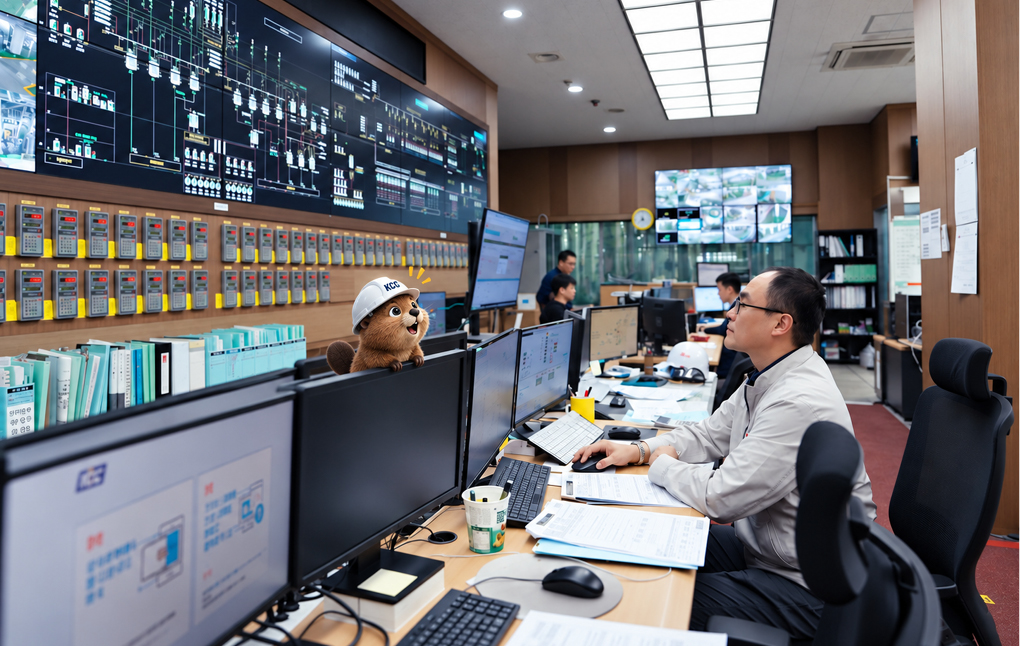
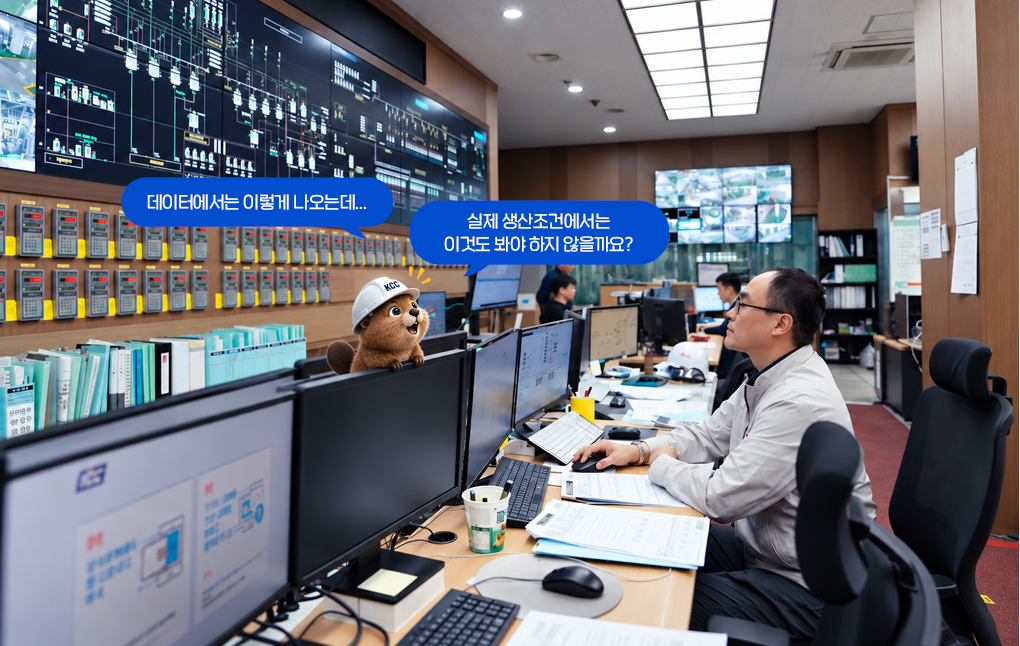
22

Changed region(s): [[0.1216, 0.2477, 0.6686, 0.4334]]

diff --git a/sub1.html b/sub1.html
@@ -101,7 +101,7 @@
           <figure class="article-figure article-figure--continued"><img src="./assets/sub1_6.jpg" width="1240" height="680" alt="표면 테스트를 마치고 도장 샘플 위에 선 케비" loading="lazy" /></figure>
 
           <section class="sound-quiz" aria-labelledby="sound-quiz-title">
-            <h2 id="sound-quiz-title"><svg viewBox="0 0 32 32" aria-hidden="true"><path d="M5 21v-6a11 11 0 0 1 22 0v6M5 17H2v10h6V17Zm22 0h3v10h-6V17Z" /></svg>무슨 소리일까요?</h2>
+            <h2 id="sound-quiz-title"><img src="./assets/sub-headphones.png" width="40" height="38" alt="" aria-hidden="true" />무슨 소리일까요?</h2>
             <audio src="./assets/fac_sound.mp3" preload="metadata" data-factory-audio></audio>
             <div class="sound-player">
               <div class="sound-player__controls">
@@ -125,7 +125,7 @@
           <section class="article-prose article-chapter" aria-labelledby="chapter-two">
             <h2 id="chapter-two"><span class="article-chapter__number">02 <span aria-hidden="true">|</span></span> 도료 공장에서 AI는 무슨 일을 할까?</h2>
             <p>이번에는 직원의 주머니에 올라타 사무공간까지 무임승차했다. 책상 위에 내려오자 노트북 화면에는 숫자와 데이터가 빼곡하다. 울산공장은 ‘Big-Data &amp; AI를 활용한 도료 생산 패러다임의 전환’을 주제로 생산 혁신 과제를 추진했다. 색상 정보와 생산실적 자료를 연결하고, 재고와 수익성 정보 등을 함께 활용해 유사·중복 색상의 반복 개발과 소량 다품종 생산 과정에서 발생할 수 있는 낭비, 재조비, 재고 문제 등을 개선하는 것이 주요 내용이었다. 이 과제는 KCC 핵심전략과제 경진대회에서 대상을 받은 바 있다.</p>
-            <figure class="article-control-room"><img src="./assets/sub1_8.jpg" width="1020" height="646" alt="생산 데이터를 확인하는 울산공장 직원과 케비" loading="lazy" /><span class="article-speech article-speech--data">데이터에서는 이렇게 나오는데...</span><span class="article-speech article-speech--field">실제 생산 조건에서는<br />이것도 봐야 하지 않을까요?</span></figure>
+            <figure class="article-control-room"><img src="./assets/sub1_8.jpg" width="1020" height="646" alt="생산 데이터를 확인하는 울산공장 직원과 케비" loading="lazy" /></figure>
             <p>회의가 20분 이상 지속되자 케비가 연신 하품을 한다. “AI가 답은 빨리 내놓는다던데, 사람들은 왜 이렇게 오래 이야기하지?” 엔터 버튼 위에서 “쿵” 발을 굴려보지만, 아직 해결점은 보이지 않는다. 그리고 케비는 한 가지를 알아냈다. AI가 가능성을 보여줄 수는 있지만, 실제 현장에 어떤 답을 적용할지는 사람의 전문적인 판단과 함께 결정된다는 것을. 울산공장이 과거 자동차도료 품질 개선 과제를 수행했을 때도 생산·기술·품질·분석 등 여러 부서가 함께 원인을 찾고 개선했다. 공장은 설비로 움직이지만, 개선은 결국 서로 다른 전문성을 가진 사람들이 연결될 때 일어난다.</p>
           </section>
 

diff --git a/css/sub1.css b/css/sub1.css
@@ -62,7 +62,7 @@ html:has(.article-page) { background: #fff; color-scheme: light; scroll-behavior
 .article-figure--continued { margin-top: 72px; }
 .sound-quiz { width: min(100%, 640px); margin: 58px auto 84px; }
 .sound-quiz h2 { display: flex; align-items: center; justify-content: center; gap: 10px; margin: 0 0 20px; font-size: 26px; font-weight: 700; letter-spacing: -0.04em; }
-.sound-quiz h2 svg { width: 38px; height: 38px; fill: none; stroke: #064dd0; stroke-width: 3; stroke-linejoin: round; }
+.sound-quiz h2 img { display: block; width: 40px; height: 38px; object-fit: contain; }
 .sound-player { padding: 14px 10px 10px; border-radius: 36px; background: #e8e7ef; }
 .sound-player__controls { display: flex; align-items: center; gap: 12px; min-height: 62px; padding: 0 22px 8px; }
 .sound-player__button { display: grid; place-items: center; width: 34px; height: 38px; border-radius: 6px; color: #262427; }
@@ -86,10 +86,6 @@ html:has(.article-page) { background: #fff; color-scheme: light; scroll-behavior
 .sound-quiz__answer { width: 78%; margin: 25px auto 0; color: #064dd0; font-size: 17px; font-weight: 650; line-height: 1.7; }
 .article-control-room { position: relative; margin: 60px 0; }
 .article-control-room > img { display: block; width: 100%; height: auto; border-radius: 6px; }
-.article-speech { position: absolute; display: block; padding: 10px 26px; border-radius: 40px; color: #fff; background: #064dd0; font-size: clamp(12px, 1.04vw, 20px); font-weight: 650; line-height: 1.35; letter-spacing: -0.04em; text-align: center; }
-.article-speech::after { content: ''; position: absolute; bottom: -10px; right: 20%; border-top: 14px solid #064dd0; border-right: 14px solid transparent; }
-.article-speech--data { top: 28%; left: 12%; }
-.article-speech--field { top: 32%; left: 40%; }
 .article-note { margin-top: 64px; margin-bottom: 64px; }
 .article-note__heading { display: flex; align-items: center; justify-content: center; min-height: 104px; padding: 14px 24px; border-radius: 18px; background: #e6edfb; }
 .article-note__heading img { display: block; width: min(652px, 100%); height: auto; }
@@ -165,7 +161,6 @@ html:has(.article-page) { background: #fff; color-scheme: light; scroll-behavior
   .article-exercises { gap: 18px; }
   .article-exercises h3 { margin-inline: 0; font-size: 16px; }
   .article-exercises p { font-size: 15px; }
-  .article-speech { padding: 8px 15px; }
   .article-tooltip { padding: 14.4px 17.6px; font-size: 14.4px; }
   .article-summary__panel { padding: 20px 22px; }
   .article-summary__panel h2 { font-size: 20px; }
@@ -199,9 +194,6 @@ html:has(.article-page) { background: #fff; color-scheme: light; scroll-behavior
   .sound-quiz__options button { padding: 11px 17px; font-size: 18px; }
   .sound-quiz__answer { font-size: 15px; }
   .article-control-room { margin-block: 35px; }
-  .article-speech { padding: 6px 9px; font-size: 10px; }
-  .article-speech--data { left: 4%; top: 23%; }
-  .article-speech--field { left: 41%; top: 30%; }
   .article-note { margin-block: 42px; }
   .article-note__heading { min-height: 70px; padding: 12px; }
   .article-note__body { padding: 24px 20px; }
